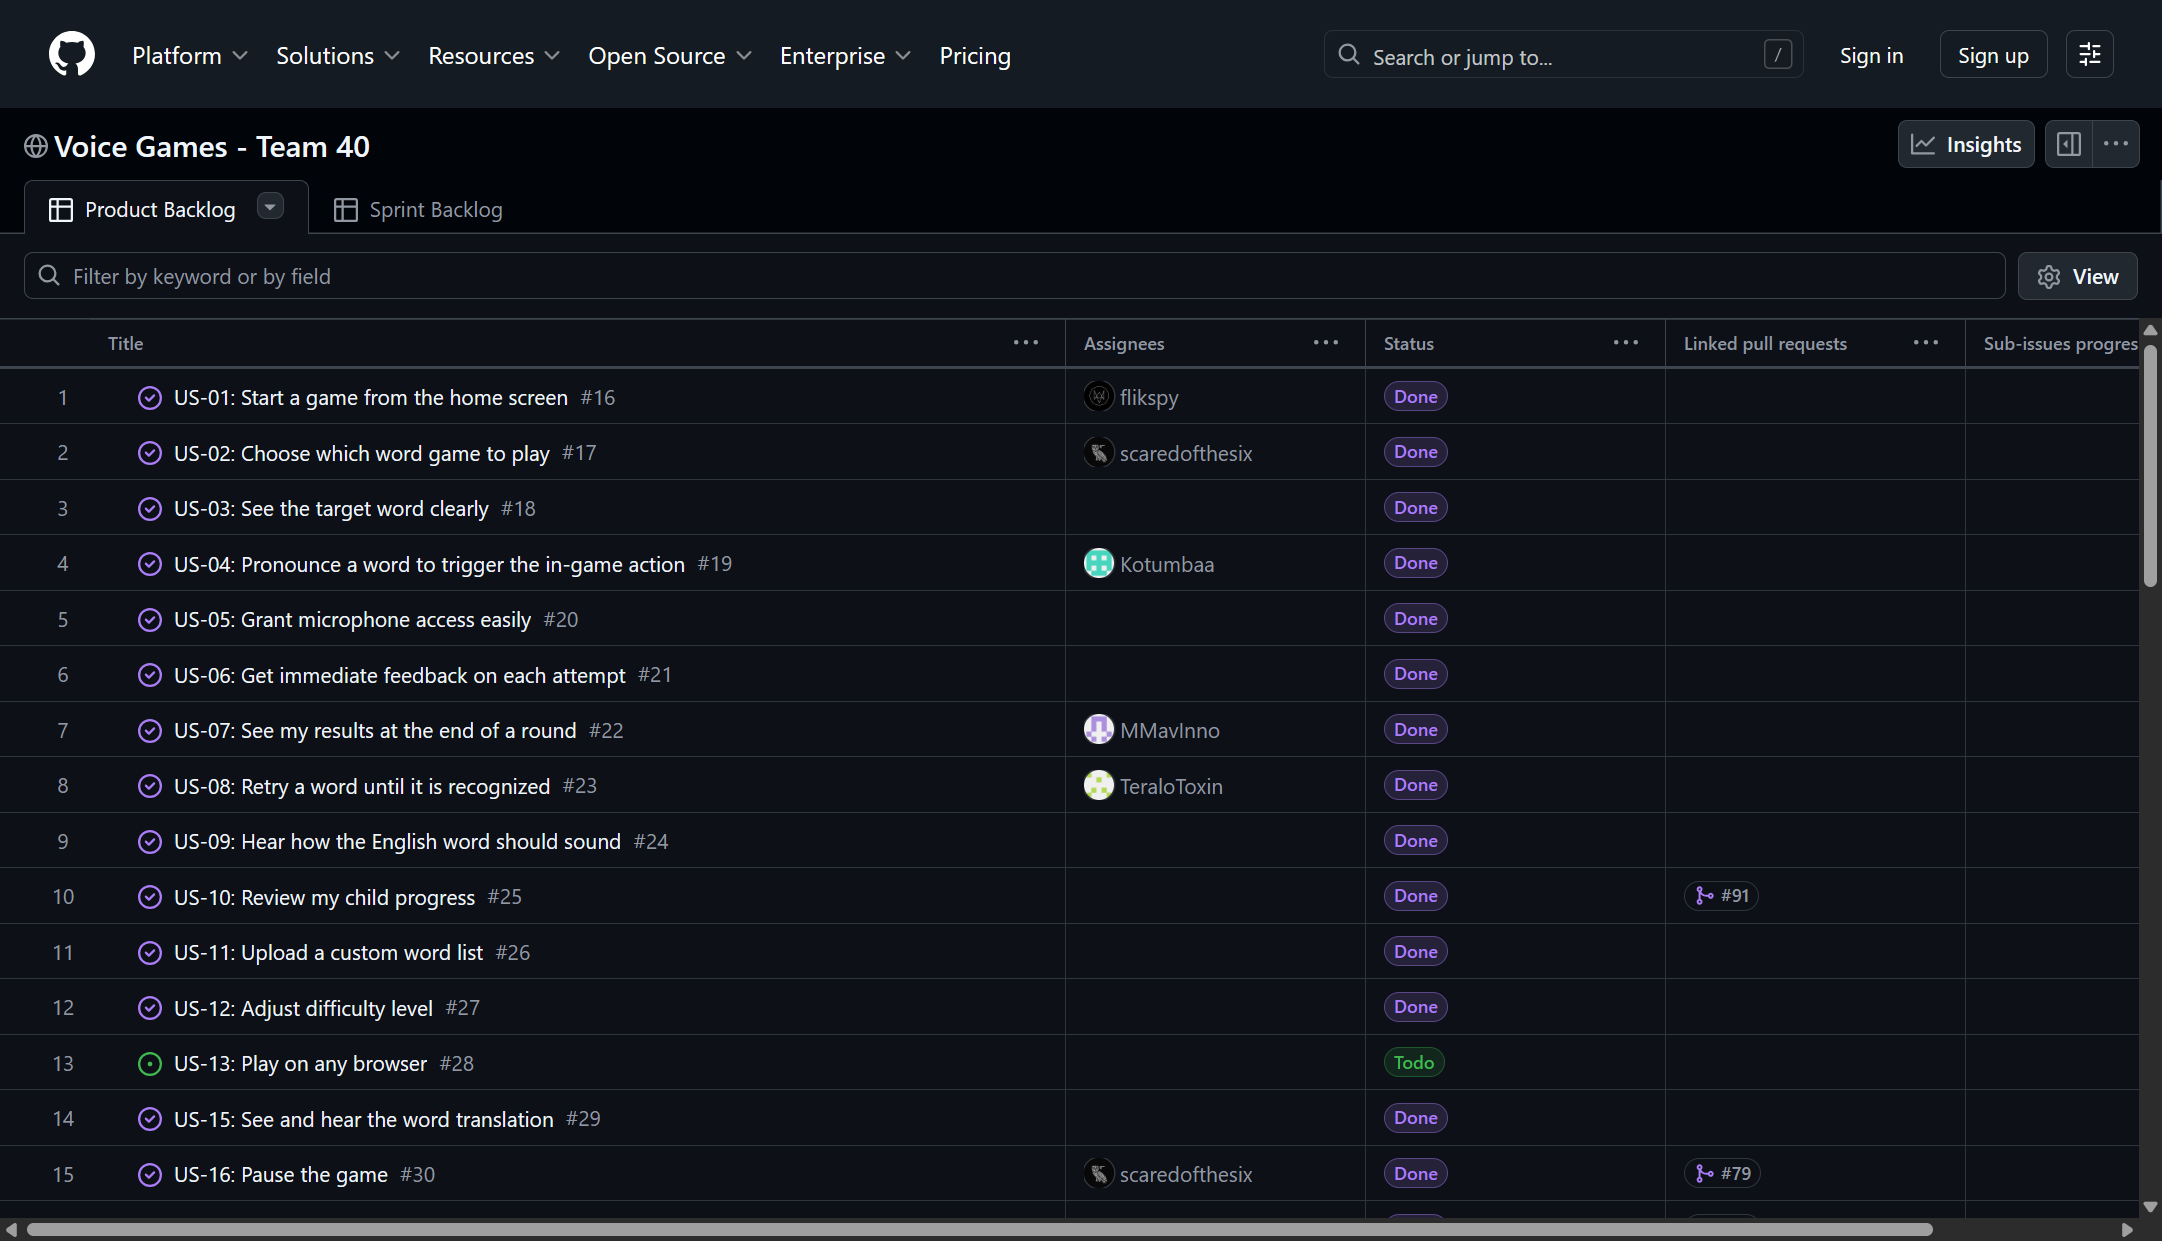
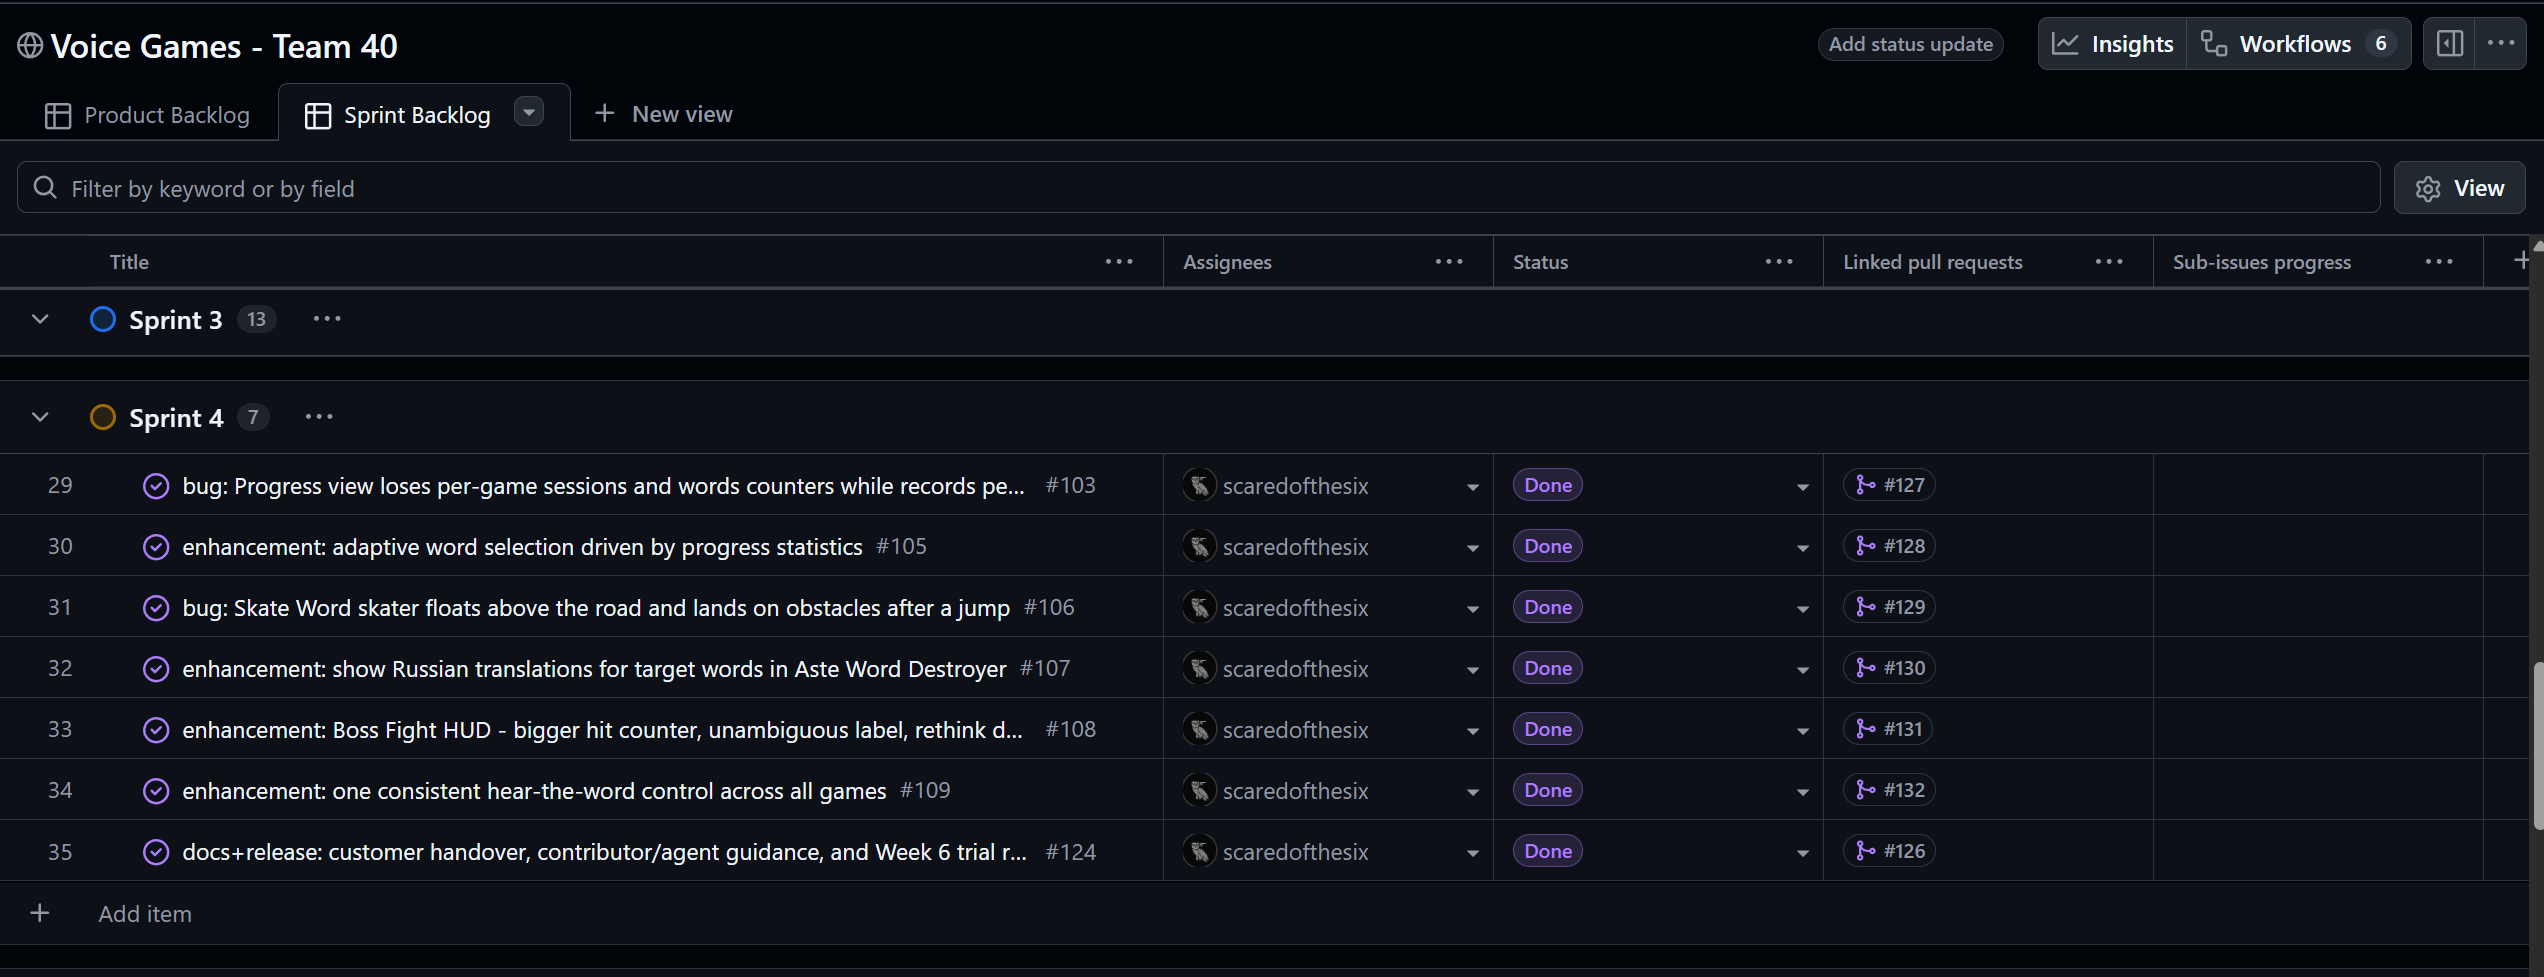
docs: complete the README game gallery (all 10 games) and refresh Week 6 evidence
- Add the four remaining game screenshots (Voice Lane Racer, Voice Rocket Climb,
  SkateWord, AsteWord Destroyer) so the README gallery shows all ten games.
- Replace the Week 6 milestone screenshot with the 100%-complete capture and the
  board screenshot with the Sprint Backlog view showing the Sprint 4 group.

diff --git a/README.md b/README.md
@@ -59,13 +59,17 @@ Each game trains pronunciation through a different mechanic:
 9. **Echo Microphone** - listen to a growing word chain and repeat it back from memory.
 10. **Magic Wizard** - cast elemental spells by pronouncing words to defeat dark forces.
 
-| Voice Bubble Popper | Sentence Bird |
+| Voice Lane Racer | Voice Bubble Popper |
 |---|---|
-| ![Voice Bubble Popper](./docs/images/game-bubble-popper.png) | ![Sentence Bird](./docs/images/game-sentence-bird.png) |
-| **Voice Treasure Hunter** | **Magic Wizard** |
-| ![Voice Treasure Hunter](./docs/images/game-treasure-hunter.png) | ![Magic Wizard](./docs/images/game-magic-wizard.png) |
-| **Echo Microphone** | |
-| ![Echo Microphone](./docs/images/game-echo-microphone.png) | |
+| ![Voice Lane Racer](./docs/images/game-voice-racer.png) | ![Voice Bubble Popper](./docs/images/game-bubble-popper.png) |
+| **Boss Fight** | **Voice Rocket Climb** |
+| ![Boss Fight](./docs/images/game-boss-fight.png) | ![Voice Rocket Climb](./docs/images/game-rocket-climb.png) |
+| **SkateWord** | **AsteWord Destroyer** |
+| ![SkateWord](./docs/images/game-skateword.png) | ![AsteWord Destroyer](./docs/images/game-asteword.png) |
+| **Voice Treasure Hunter** | **Sentence Bird** |
+| ![Voice Treasure Hunter](./docs/images/game-treasure-hunter.png) | ![Sentence Bird](./docs/images/game-sentence-bird.png) |
+| **Echo Microphone** | **Magic Wizard** |
+| ![Echo Microphone](./docs/images/game-echo-microphone.png) | ![Magic Wizard](./docs/images/game-magic-wizard.png) |
 
 ## Documentation
 

diff --git a/reports/week6/README.md b/reports/week6/README.md
@@ -189,11 +189,10 @@ item is PR #147, this report). 93% complete at capture time; 100% once #147 merg
 
 ![Sprint 4 milestone](./images/milestone-sprint4.png)
 
-The Sprint 4 milestone above is the authoritative Sprint 4 Backlog view (the milestone is the
-Sprint container per the assignment). The GitHub Projects board below is the full **Product
-Backlog** (all user stories with status and linked PRs).
+The Sprint 4 Backlog on the GitHub Projects board (Sprint Backlog view, grouped by Sprint) -
+the Sprint 4 group shows each item with its assignee, `Done` status, and linked pull request.
 
-![Product Backlog board](./images/project-board.png)
+![Sprint 4 Backlog board](./images/project-board.png)
 
 **`v0.4.0` Week 6 trial release** - tagged on the protected default branch, linking the
 Sprint 4 milestone, `docs/customer-handover.md`, this report, and run instructions.
